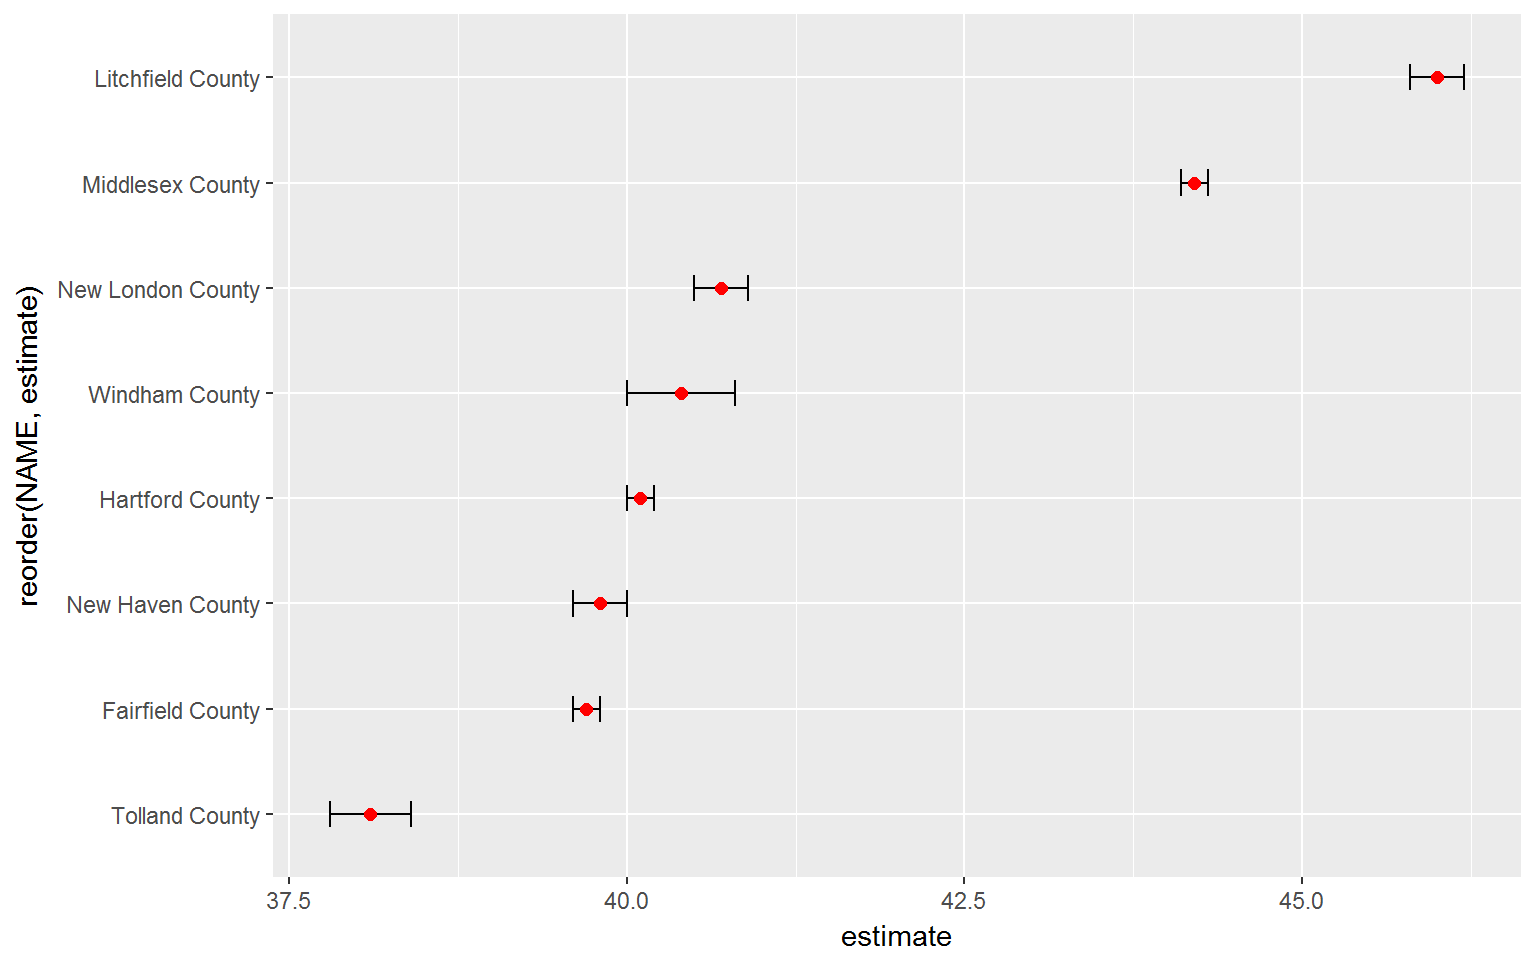
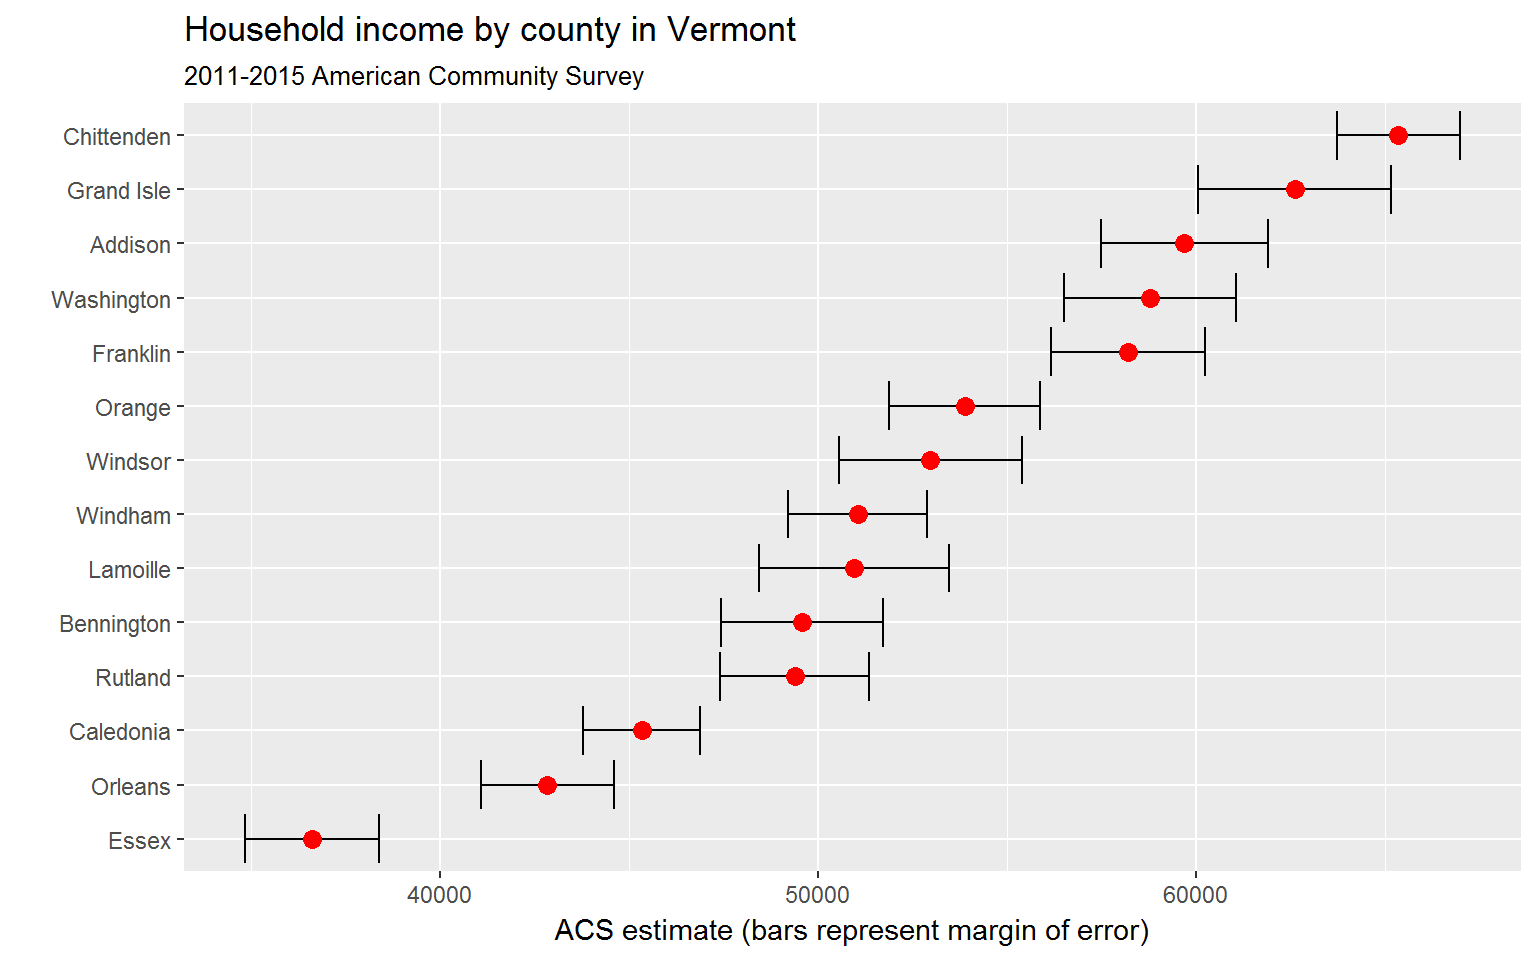
update documentation website

diff --git a/docs/articles/basic-usage.html b/docs/articles/basic-usage.html
@@ -68,10 +68,6 @@
     
     
 <div class="contents">
-<div id="basic-functionality-of-tidycensus" class="section level2">
-<h2 class="hasAnchor">
-<a href="#basic-functionality-of-tidycensus" class="anchor"></a>Basic functionality of <strong>tidycensus</strong>
-</h2>
 <p>To get started working with <strong>tidycensus</strong>, users should load the package along with the <strong>tidyverse</strong> package, and set their Census API key. A key can be obtained from <link here>.</p>
 <div class="sourceCode"><pre class="sourceCode r"><code class="sourceCode r"><span class="kw">library</span>(tidycensus)
 <span class="kw">library</span>(tidyverse)
@@ -96,7 +92,6 @@
 <span class="st">  </span><span class="kw">ggplot</span>(<span class="kw">aes</span>(<span class="dt">x =</span> value, <span class="dt">y =</span> <span class="kw">reorder</span>(NAME, value))) +<span class="st"> </span>
 <span class="st">  </span><span class="kw">geom_point</span>()</code></pre></div>
 <p><img src="basic-usage_files/figure-html/unnamed-chunk-4-1.png" width="768"></p>
-</div>
 <div id="searching-for-variables" class="section level2">
 <h2 class="hasAnchor">
 <a href="#searching-for-variables" class="anchor"></a>Searching for variables</h2>
@@ -110,26 +105,30 @@
 <div id="working-with-acs-data" class="section level2">
 <h2 class="hasAnchor">
 <a href="#working-with-acs-data" class="anchor"></a>Working with ACS data</h2>
-<p>American Community Survey data differ from decennial Census data in that ACS data are based on an annual sample of approximately 3 million households, rather than a more complete enumeration of the US population. In turn, ACS data points are <strong>estimates</strong> characterized by a <strong>margin of error</strong>. <strong>tidycensus</strong> will always return the estimate and margin of error together for any requested variables. In turn, when requesting ACS data with <strong>tidycensus</strong>, it is not necessary to specify the <code>"E"</code> or <code>"M"</code> suffix for a variable name. Let’s fetch median age data from the 2011-2015 ACS for counties in Connecticut; the endyear is not necessary here as the function defaults to 2015.</p>
-<div class="sourceCode"><pre class="sourceCode r"><code class="sourceCode r">ct15 &lt;-<span class="st"> </span><span class="kw"><a href="../reference/get_acs.html">get_acs</a></span>(<span class="dt">geography =</span> <span class="st">"county"</span>, <span class="dt">state =</span> <span class="st">"CT"</span>, <span class="dt">variables =</span> <span class="st">"B01002_001"</span>)
+<p>American Community Survey data differ from decennial Census data in that ACS data are based on an annual sample of approximately 3 million households, rather than a more complete enumeration of the US population. In turn, ACS data points are <strong>estimates</strong> characterized by a <strong>margin of error</strong>. <strong>tidycensus</strong> will always return the estimate and margin of error together for any requested variables. In turn, when requesting ACS data with <strong>tidycensus</strong>, it is not necessary to specify the <code>"E"</code> or <code>"M"</code> suffix for a variable name. Let’s fetch median household income data from the 2011-2015 ACS for counties in Vermont; the endyear is not necessary here as the function defaults to 2015.</p>
+<div class="sourceCode"><pre class="sourceCode r"><code class="sourceCode r">vt &lt;-<span class="st"> </span><span class="kw"><a href="../reference/get_acs.html">get_acs</a></span>(<span class="dt">geography =</span> <span class="st">"county"</span>, <span class="dt">variables =</span> <span class="st">"B19013_001"</span>, <span class="dt">state =</span> <span class="st">"VT"</span>)
 
-<span class="kw">head</span>(ct15)</code></pre></div>
+<span class="kw">head</span>(vt)</code></pre></div>
 <pre><code>## # A tibble: 6 × 5
-##   GEOID                           NAME   variable estimate   moe
-##   &lt;chr&gt;                          &lt;chr&gt;      &lt;chr&gt;    &lt;dbl&gt; &lt;dbl&gt;
-## 1 09001  Fairfield County, Connecticut B01002_001     39.7   0.1
-## 2 09003   Hartford County, Connecticut B01002_001     40.1   0.1
-## 3 09005 Litchfield County, Connecticut B01002_001     46.0   0.2
-## 4 09007  Middlesex County, Connecticut B01002_001     44.2   0.1
-## 5 09009  New Haven County, Connecticut B01002_001     39.8   0.2
-## 6 09011 New London County, Connecticut B01002_001     40.7   0.2</code></pre>
+##   GEOID                       NAME   variable estimate   moe
+##   &lt;chr&gt;                      &lt;chr&gt;      &lt;chr&gt;    &lt;dbl&gt; &lt;dbl&gt;
+## 1 50001    Addison County, Vermont B19013_001    59688  2199
+## 2 50003 Bennington County, Vermont B19013_001    49573  2146
+## 3 50005  Caledonia County, Vermont B19013_001    45323  1559
+## 4 50007 Chittenden County, Vermont B19013_001    65350  1634
+## 5 50009      Essex County, Vermont B19013_001    36599  1779
+## 6 50011   Franklin County, Vermont B19013_001    58199  2034</code></pre>
 <p>The output is similar to a call to <code>get_decennial</code>, but instead of a <code>value</code> column, <code>get_acs</code> returns <code>estimate</code> and <code>moe</code> columns for the ACS estimate and margin of error, respectively. <code>moe</code> represents the default 90 percent confidence level around the estimate; this can be changed to 95 or 99 percent with the <code>moe_level</code> parameter in <code>get_acs</code> if desired.</p>
 <p>As we have the margin of error, we can visualize the uncertainty around the estimate:</p>
-<div class="sourceCode"><pre class="sourceCode r"><code class="sourceCode r">ct15 %&gt;%
-<span class="st">  </span><span class="kw">mutate</span>(<span class="dt">NAME =</span> <span class="kw">gsub</span>(<span class="st">", Connecticut"</span>, <span class="st">""</span>, NAME)) %&gt;%
-<span class="st">  </span><span class="kw">ggplot</span>(<span class="kw">aes</span>(<span class="dt">x =</span> estimate, <span class="dt">y =</span> <span class="kw">reorder</span>(NAME, estimate))) +<span class="st"> </span>
-<span class="st">  </span><span class="kw">geom_errorbarh</span>(<span class="kw">aes</span>(<span class="dt">xmin =</span> estimate -<span class="st"> </span>moe, <span class="dt">xmax =</span> estimate +<span class="st"> </span>moe, <span class="dt">height =</span> <span class="fl">0.25</span>)) +<span class="st"> </span>
-<span class="st">  </span><span class="kw">geom_point</span>(<span class="dt">color =</span> <span class="st">"red"</span>, <span class="dt">size =</span> <span class="dv">2</span>)</code></pre></div>
+<div class="sourceCode"><pre class="sourceCode r"><code class="sourceCode r">vt %&gt;%
+<span class="st">  </span><span class="kw">mutate</span>(<span class="dt">NAME =</span> <span class="kw">gsub</span>(<span class="st">" County, Vermont"</span>, <span class="st">""</span>, NAME)) %&gt;%
+<span class="st">  </span><span class="kw">ggplot</span>(<span class="kw">aes</span>(<span class="dt">x =</span> estimate, <span class="dt">y =</span> <span class="kw">reorder</span>(NAME, estimate))) +
+<span class="st">  </span><span class="kw">geom_errorbarh</span>(<span class="kw">aes</span>(<span class="dt">xmin =</span> estimate -<span class="st"> </span>moe, <span class="dt">xmax =</span> estimate +<span class="st"> </span>moe)) +
+<span class="st">  </span><span class="kw">geom_point</span>(<span class="dt">color =</span> <span class="st">"red"</span>, <span class="dt">size =</span> <span class="dv">3</span>) +
+<span class="st">  </span><span class="kw">labs</span>(<span class="dt">title =</span> <span class="st">"Household income by county in Vermont"</span>,
+       <span class="dt">subtitle =</span> <span class="st">"2011-2015 American Community Survey"</span>,
+       <span class="dt">y =</span> <span class="st">""</span>,
+       <span class="dt">x =</span> <span class="st">"ACS estimate (bars represent margin of error)"</span>)</code></pre></div>
 <p><img src="basic-usage_files/figure-html/unnamed-chunk-7-1.png" width="768"></p>
 </div>
 </div>
@@ -139,8 +138,7 @@
         <div id="tocnav">
       <h2>Contents</h2>
       <ul class="nav nav-pills nav-stacked">
-<li><a href="#basic-functionality-of-tidycensus">Basic functionality of <strong>tidycensus</strong></a></li>
-      <li><a href="#searching-for-variables">Searching for variables</a></li>
+<li><a href="#searching-for-variables">Searching for variables</a></li>
       <li><a href="#working-with-acs-data">Working with ACS data</a></li>
       </ul>
 </div>

diff --git a/docs/reference/get_acs.html b/docs/reference/get_acs.html
@@ -92,7 +92,7 @@
 
     <pre class="usage"><span class='fu'>get_acs</span>(<span class='no'>geography</span>, <span class='no'>variables</span>, <span class='kw'>endyear</span> <span class='kw'>=</span> <span class='fl'>2015</span>, <span class='kw'>output</span> <span class='kw'>=</span> <span class='st'>"tidy"</span>,
   <span class='kw'>state</span> <span class='kw'>=</span> <span class='kw'>NULL</span>, <span class='kw'>county</span> <span class='kw'>=</span> <span class='kw'>NULL</span>, <span class='kw'>geometry</span> <span class='kw'>=</span> <span class='fl'>FALSE</span>, <span class='kw'>keep_geo_vars</span> <span class='kw'>=</span> <span class='fl'>FALSE</span>,
-  <span class='kw'>summary_var</span> <span class='kw'>=</span> <span class='kw'>NULL</span>, <span class='kw'>key</span> <span class='kw'>=</span> <span class='kw'>NULL</span>, <span class='kw'>moe_level</span> <span class='kw'>=</span> <span class='st'>"90"</span>, <span class='no'>...</span>)</pre>
+  <span class='kw'>summary_var</span> <span class='kw'>=</span> <span class='kw'>NULL</span>, <span class='kw'>key</span> <span class='kw'>=</span> <span class='kw'>NULL</span>, <span class='kw'>moe_level</span> <span class='kw'>=</span> <span class='fl'>90</span>, <span class='no'>...</span>)</pre>
     
     <h2 class="hasAnchor" id="arguments"><a class="anchor" href="#arguments"></a> Arguments</h2>
     <table class="ref-arguments">

diff --git a/docs/index.html b/docs/index.html
@@ -116,13 +116,13 @@ We recommend moving this block and the preceding CSS link to the HEAD of your HT
   <div class="col-md-3 hidden-xs hidden-sm" id="sidebar">
     <h2>Links</h2>
 <ul class="list-unstyled">
-<li>Browse source code at <br><a href="https://walkerke.github.io/tidycensus">https://walkerke.github.io/tidycensus</a>
+<li>Browse source code at <br><a href="https://github.com/walkerke/tidycensus">https://github.com/walkerke/tidycensus</a>
 </li>
 <li>Report a bug at <br><a href="https://github.com/walkerke/tidycensus/issues">https://github.com/walkerke/tidycensus/issues</a>
 </li>
 </ul>
 <h2>License</h2>
-<p><a href="https://opensource.org/licenses/mit-license.php">MIT</a></p>
+<p><a href="https://opensource.org/licenses/mit-license.php">MIT</a> + file <a href="LICENSE">LICENSE</a></p>
 <h2>Developers</h2>
 <ul class="list-unstyled">
 <li>Kyle Walker <br><small class="roles"> Author, maintainer </small> </li>
